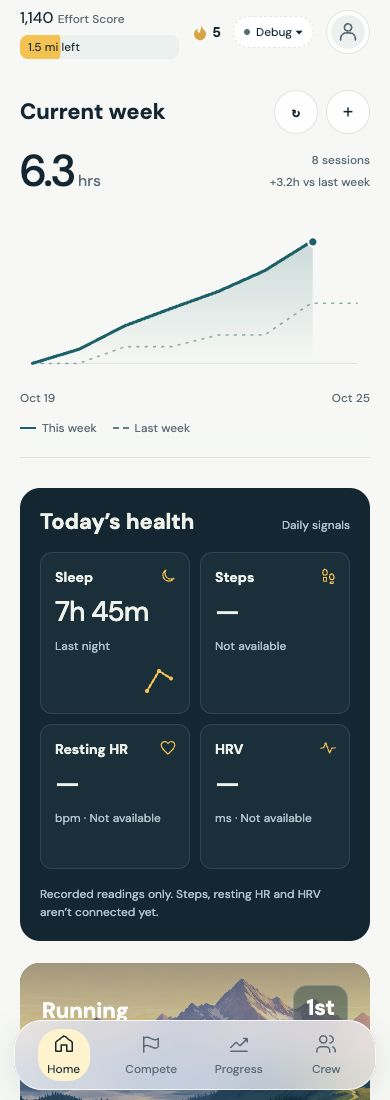
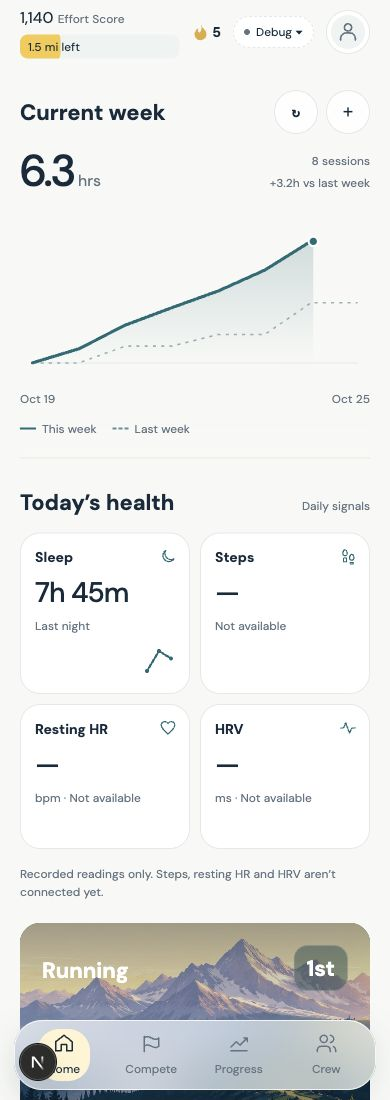
Unify Home chart and health metrics in the light theme

diff --git a/apps/mobile/src/features/daily-health.tsx b/apps/mobile/src/features/daily-health.tsx
@@ -13,12 +13,12 @@ export function DailyHealth({ state }: { state: CompeteState }) {
     <View style={s.header}><AppText role="heading" accessibilityRole="header" style={{ color: colors.text }}>Today’s health</AppText><AppText role="caption" style={s.secondary}>Daily signals</AppText></View>
     <View style={s.grid}>{metrics.map((metric, index) => {
       const spark = healthSparkline(metric.history);
-      return <Pressable key={metric.id} accessibilityRole="button" accessibilityLabel={`${metric.name}, ${metric.value}, ${metric.context}`} accessibilityHint="Show reading details" accessibilityState={{ expanded: metric.id === expanded }} onPress={() => setExpanded(expanded === metric.id ? null : metric.id)} style={[s.tile, { width: fontScale > 1.35 ? "100%" : "47%", flexGrow: 1 }, expanded === metric.id && { borderColor: colors.gold }]}>
-        <View style={s.tileHeader}><AppText role="label" style={{ color: colors.text, flexShrink: 1 }}>{metric.name}</AppText><Svg width={18} height={18} viewBox="0 0 24 24" accessible={false}><Path d={HOME_HEALTH_ICON_PATHS[metric.id]} fill="none" stroke={colors.gold} strokeWidth={1.6} strokeLinecap="round" strokeLinejoin="round"/></Svg></View>
+      return <Pressable key={metric.id} accessibilityRole="button" accessibilityLabel={`${metric.name}, ${metric.value}, ${metric.context}`} accessibilityHint="Show reading details" accessibilityState={{ expanded: metric.id === expanded }} onPress={() => setExpanded(expanded === metric.id ? null : metric.id)} style={[s.tile, { width: fontScale > 1.35 ? "100%" : "47%", flexGrow: 1 }, expanded === metric.id && { borderColor: colors.accent }]}>
+        <View style={s.tileHeader}><AppText role="label" style={{ color: colors.text, flexShrink: 1 }}>{metric.name}</AppText><Svg width={18} height={18} viewBox="0 0 24 24" accessible={false}><Path d={HOME_HEALTH_ICON_PATHS[metric.id]} fill="none" stroke={colors.accent} strokeWidth={1.6} strokeLinecap="round" strokeLinejoin="round"/></Svg></View>
         <Text style={s.value}>{metric.value}</Text><AppText role="caption" style={s.secondary}>{metric.context}</AppText>
         {spark.dots.length > 0 && <Svg width={80} height={36} viewBox="0 0 80 36" accessible={false} style={{ alignSelf: "flex-end", marginTop: "auto" }}>
-          {spark.segments.map((points, i) => <Polyline key={i} points={points} fill="none" stroke={index % 2 ? colors.sage : colors.gold} strokeWidth={2} strokeLinecap="round"/>)}
-          {spark.dots.map((dot, i) => <Circle key={i} cx={dot.x} cy={dot.y} r={2} fill={index % 2 ? colors.sage : colors.gold}/>)}
+          {spark.segments.map((points, i) => <Polyline key={i} points={points} fill="none" stroke={index % 2 ? colors.comparison : colors.accent} strokeWidth={2} strokeLinecap="round"/>)}
+          {spark.dots.map((dot, i) => <Circle key={i} cx={dot.x} cy={dot.y} r={2} fill={index % 2 ? colors.comparison : colors.accent}/>)}
         </Svg>}
       </Pressable>;
     })}</View>
@@ -27,10 +27,10 @@ export function DailyHealth({ state }: { state: CompeteState }) {
   </View>;
 }
 const s = StyleSheet.create({
-  panel: { padding: 20, borderRadius: 20, backgroundColor: colors.background, gap: 16 },
+  panel: { backgroundColor: colors.background, gap: 16 },
   header: { flexDirection: "row", justifyContent: "space-between", alignItems: "baseline", flexWrap: "wrap", gap: 8 },
   grid: { flexDirection: "row", flexWrap: "wrap", gap: 10 },
-  tile: { padding: 14, minHeight: 145, borderWidth: 1, borderColor: colors.border, borderRadius: 12, backgroundColor: colors.tile, gap: 8 },
+  tile: { padding: 14, minHeight: 145, borderWidth: 1, borderColor: colors.border, borderRadius: 20, backgroundColor: colors.tile, gap: 8 },
   tileHeader: { flexDirection: "row", justifyContent: "space-between", alignItems: "center", gap: 4 },
   value: { ...textStyle("display"), fontSize: 28, lineHeight: 34, fontFamily: "DMSans_500Medium", color: colors.text, fontVariant: ["tabular-nums"] },
   secondary: { color: colors.secondary },

diff --git a/apps/web/src/features/today/daily-health.css b/apps/web/src/features/today/daily-health.css
@@ -1,13 +1,13 @@
-.home-health{background:var(--health-background);color:var(--health-text);border-radius:20px;padding:20px;display:grid;gap:16px}
+.home-health{background:var(--health-background);color:var(--health-text);padding:0;display:grid;gap:16px}
 .home-health-title{display:flex;justify-content:space-between;align-items:baseline;gap:8px;flex-wrap:wrap}
 .home-health-title h2{margin:0;color:var(--health-text)}
 .home-health-title>span{color:var(--health-secondary);font:var(--type-caption)}
 .home-health-grid{display:grid;grid-template-columns:repeat(2,minmax(0,1fr));gap:10px}
-.home-health-tile{position:relative;min-width:0;min-height:145px;padding:14px;border:1px solid var(--health-border);border-radius:12px;background:var(--health-tile);color:var(--health-text);font-family:inherit;text-align:left;cursor:pointer;display:flex;flex-direction:column;align-items:flex-start;gap:8px}
-.home-health-tile:focus-visible{outline:3px solid var(--health-gold);outline-offset:3px}
-.home-health-tile[aria-expanded=true]{border-color:var(--health-gold)}
+.home-health-tile{position:relative;min-width:0;min-height:145px;padding:14px;border:1px solid var(--health-border);border-radius:20px;background:var(--health-tile);color:var(--health-text);font-family:inherit;text-align:left;cursor:pointer;display:flex;flex-direction:column;align-items:flex-start;gap:8px}
+.home-health-tile:focus-visible{outline:3px solid var(--health-accent);outline-offset:3px}
+.home-health-tile[aria-expanded=true]{border-color:var(--health-accent)}
 .home-health-name{font:var(--type-label);padding-right:20px;overflow-wrap:anywhere}
-.home-health-icon{position:absolute;right:12px;top:14px;width:18px;height:18px;color:var(--health-gold)}
+.home-health-icon{position:absolute;right:12px;top:14px;width:18px;height:18px;color:var(--health-accent)}
 .home-health-tile strong{font:var(--type-display);font-weight:500;font-size:28px;line-height:1.2;font-variant-numeric:tabular-nums;letter-spacing:-.5px;overflow-wrap:anywhere}
 .home-health-context{font:var(--type-caption);color:var(--health-secondary)}
 .home-health-spark{width:80px;height:36px;align-self:flex-end;margin-top:auto}
@@ -15,4 +15,4 @@
 .home-health-detail p{margin:6px 0}
 .home-health-detail>span,.home-health-note{font:var(--type-caption);color:var(--health-secondary)}
 .home-health-note{margin:0}
-@media(max-width:360px){.home-health{padding:16px}.home-health-tile{padding:12px}.home-health-tile strong{font-size:25px}.home-health-name{font-size:13px}}
+@media(max-width:360px){.home-health{padding:0}.home-health-tile{padding:12px}.home-health-tile strong{font-size:25px}.home-health-name{font-size:13px}}

diff --git a/apps/web/src/features/today/daily-health.tsx b/apps/web/src/features/today/daily-health.tsx
@@ -18,7 +18,7 @@ export function DailyHealth({ state }: { state: CompeteState }) {
         <span className="home-health-name">{metric.name}</span>
         <svg className="home-health-icon" viewBox="0 0 24 24" aria-hidden="true"><path d={HOME_HEALTH_ICON_PATHS[metric.id]} fill="none" stroke="currentColor" strokeWidth="1.6" strokeLinecap="round" strokeLinejoin="round"/></svg>
         <strong>{metric.value}</strong><span className="home-health-context">{metric.context}</span>
-        {spark.dots.length > 0 && <svg className="home-health-spark" viewBox="0 0 80 36" aria-hidden="true" style={{ color: index % 2 ? colors.sage : colors.gold }}>
+        {spark.dots.length > 0 && <svg className="home-health-spark" viewBox="0 0 80 36" aria-hidden="true" style={{ color: index % 2 ? colors.comparison : colors.accent }}>
           {spark.segments.map((points, i) => <polyline key={i} points={points} fill="none" stroke="currentColor" strokeWidth="2" strokeLinecap="round"/>)}
           {spark.dots.map((dot, i) => <circle key={i} cx={dot.x} cy={dot.y} r="2" fill="currentColor"/>)}
         </svg>}

diff --git a/packages/shared/src/shell.ts b/packages/shared/src/shell.ts
@@ -89,15 +89,15 @@ export const SHELL_RADIUS = {
   pill: 999,
 } as const;
 
-/** Signal Room surface for Home daily readings, on both platforms. */
+/** Light Home palette shared by the Portfolio chart and daily readings. */
 export const HOME_HEALTH_COLORS = {
-  background: SHELL_COLORS.ink,
-  tile: "#1b3644",
-  border: "#31505a",
-  text: "#f0f4ec",
-  secondary: "#b7cbd2",
-  gold: SHELL_COLORS.tennis,
-  sage: "#b6cfb5",
+  background: SHELL_COLORS.paper,
+  tile: SHELL_COLORS.card,
+  border: SHELL_COLORS.line,
+  text: SHELL_COLORS.ink,
+  secondary: SHELL_COLORS.muted,
+  accent: SHELL_COLORS.fieldTeal,
+  comparison: SHELL_COLORS.secondary,
 } as const;
 
 export const SHELL_TYPE = {

diff --git a/docs/reviews/home-health-production/README.md b/docs/reviews/home-health-production/README.md
@@ -1,7 +1,7 @@
 # Home — Portfolio + Signal Room
 
 The October 25 selection combines Portfolio's quiet cumulative hours chart with
-Signal Room's dark daily-health tiles, on web and native iOS/Android.
+Signal Room's daily-health tile layout, rethemed to match the light Portfolio chart, on web and native iOS/Android.
 
 The chart keeps the existing Eastern weekly hours comparison and eligibility.
 It removes the weekday labels/picker, uses a teal line and subtle area, shows the
@@ -19,7 +19,7 @@ separate data integration exists. Workout HR/distance and readiness/sleep scores
 are never substituted. No new health permissions, API, persistence, migration,
 goals or scoring changes are introduced.
 
-The production palette is the shared HOME_HEALTH_COLORS token set. Readable text,
+The production palette is the shared HOME_HEALTH_COLORS token set: canvas background, white tiles, navy text, muted captions and teal chart/icon/selection accents. The section stays open on the same light canvas as the chart, with no contrasting outer panel. Readable text,
 44px+ tile controls, explicit expanded states, wrapping, and native single-column
 layout at larger font sizes are part of both implementations.
 
@@ -30,3 +30,8 @@ Browser review at 390px and 320px confirmed heading contrast, wrapping with no
 horizontal overflow, recorded sleep details and unavailable metric explanations.
 Screenshots show a local synthetic account's existing recorded data. Physical
 native-device and VoiceOver review remain outstanding.
+
+Theme correction: the chart and health section now share the light canvas and
+teal accent, with white metric tiles and navy/muted text. Web/native consume the
+same palette. Phone reviews at 390px and 320px confirm readable headings and no
+horizontal overflow. Data and interactions are unchanged by this correction.

diff --git a/docs/design-guide.md b/docs/design-guide.md
@@ -239,10 +239,8 @@ roster data for session portraits; never broaden profile reads for presentation.
 
 Production Home on web/native now combines the Portfolio cumulative hours chart
 (teal line, subtle fill, quiet previous-week comparison, endpoint dates, no weekday
-picker) with Signal Room's dark four-tile daily health panel beneath it. Current
-week, session totals and activity actions remain. `HOME_HEALTH_COLORS` defines navy
-`#142b3b`, tile `#1b3644`, border `#31505a`, text `#f0f4ec`, secondary `#b7cbd2`,
-yellow `#f7c948` and sage `#b6cfb5`. Historical sleep gaps stay visible; no medical
+picker) with Signal Room's four-tile daily health layout beneath it, rethemed to match the light chart. Current
+week, session totals and activity actions remain. `HOME_HEALTH_COLORS` reuses the existing light tokens: canvas `#f8f9f6`, white tiles, border `#e3e9e7`, navy text `#142b3b`, muted captions `#637482`, teal accent `#176c75` and comparison `#668e91`. The chart and health section share an open canvas, typography and teal visual language. Historical sleep gaps stay visible; no medical
 ranges or targets are inferred. Only stored current sleep duration is available;
 Steps, Resting HR and HRV show unavailable until their data feeds exist. See the
 [implementation review](reviews/home-health-production/README.md).
